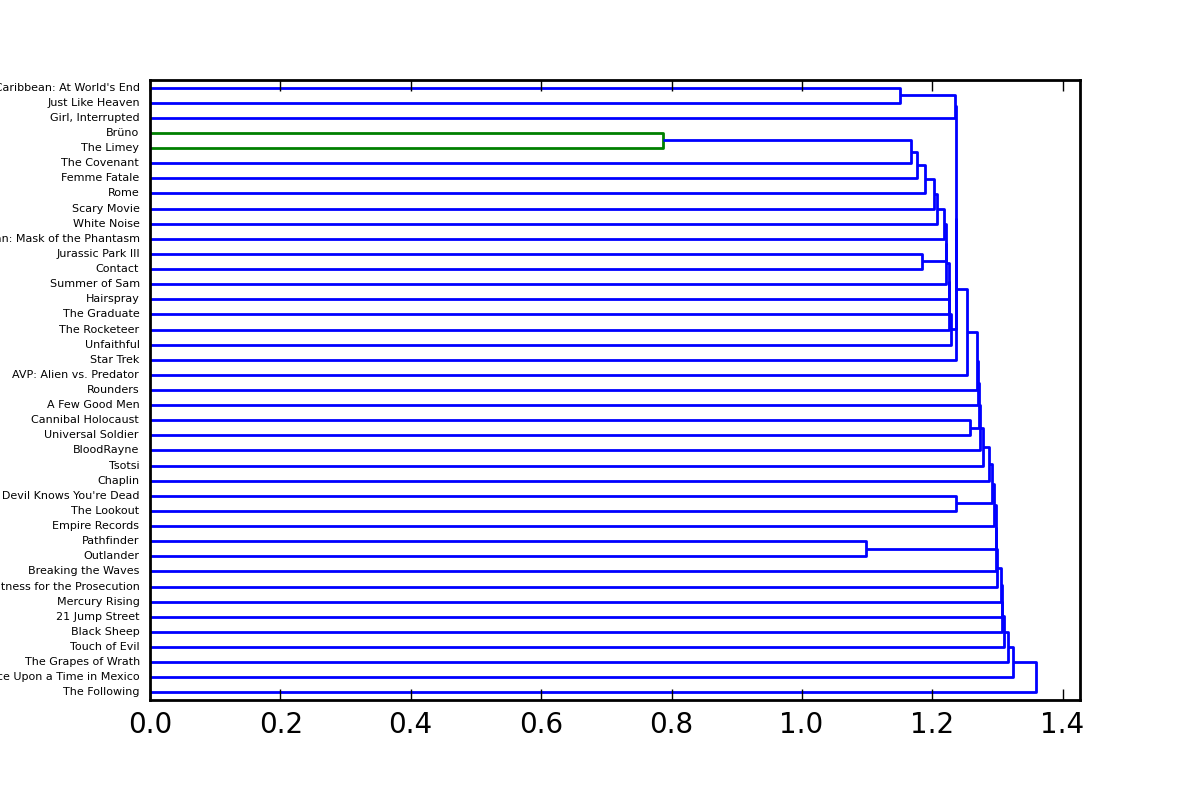
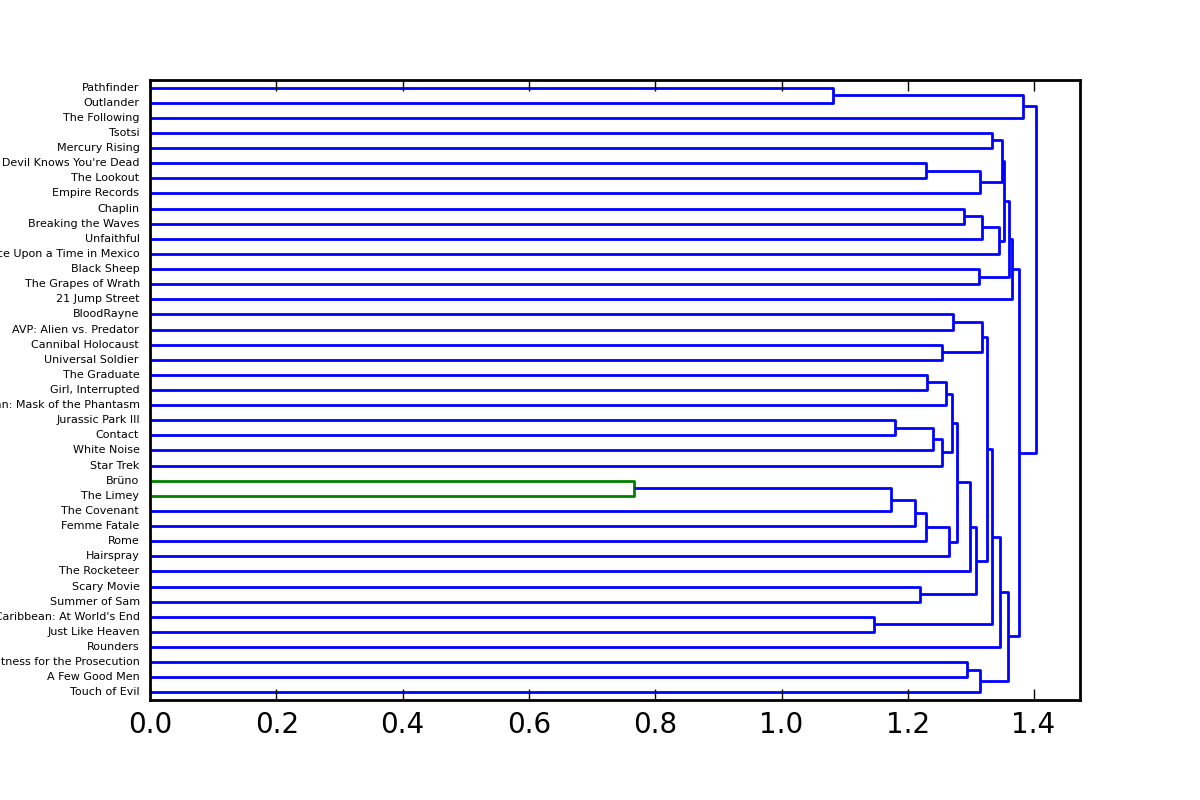
Derniere modif

diff --git a/code/Kohonen_analysis.py b/code/Kohonen_analysis.py
@@ -12,16 +12,16 @@ from loadData import  readFile, extractArrays
 from sklearn.metrics.pairwise import pairwise_distances
 from MovieCategories import MovieCategories
 import pylab
-fname = 'data3/data50.json'
+fname = 'data4/data50.json'
 
 
 infos = readFile(fname)
 titles, words, matrix = extractArrays(infos)
 #titles=np.array(titles)
-print titles[6]
+print titles[3]
 cat=MovieCategories()
 
-cat.getCategory(titles[6])
+cat.getCategory(titles[3])
 #matrix = np.transpose(matrix)
 
 #pl.figure(figsize=(20,40))
@@ -53,10 +53,10 @@ np.sort(distanceMatrix[2,:])
 print distanceMatrix.shape
 
 
-Z=linkage(distanceMatrix)#,method='centroid')
+Z=linkage(distanceMatrix,method='average')#,method='centroid')
 print Z.shape
-image=dendrogram(Z,labels=titles, distance_sort='descending',
-                 leaf_font_size=4,orientation='left')
+image=dendrogram(Z,labels=titles, distance_sort='descendent',
+                 leaf_font_size=4,orientation='left', show_contracted=True)
 pylab.savefig("exampleDendrogram.png",dpi=200 )
 #cluster=fcluster(Z,0.6, depth=3)
 #_ = pl.savefig('images/clusters.png')
